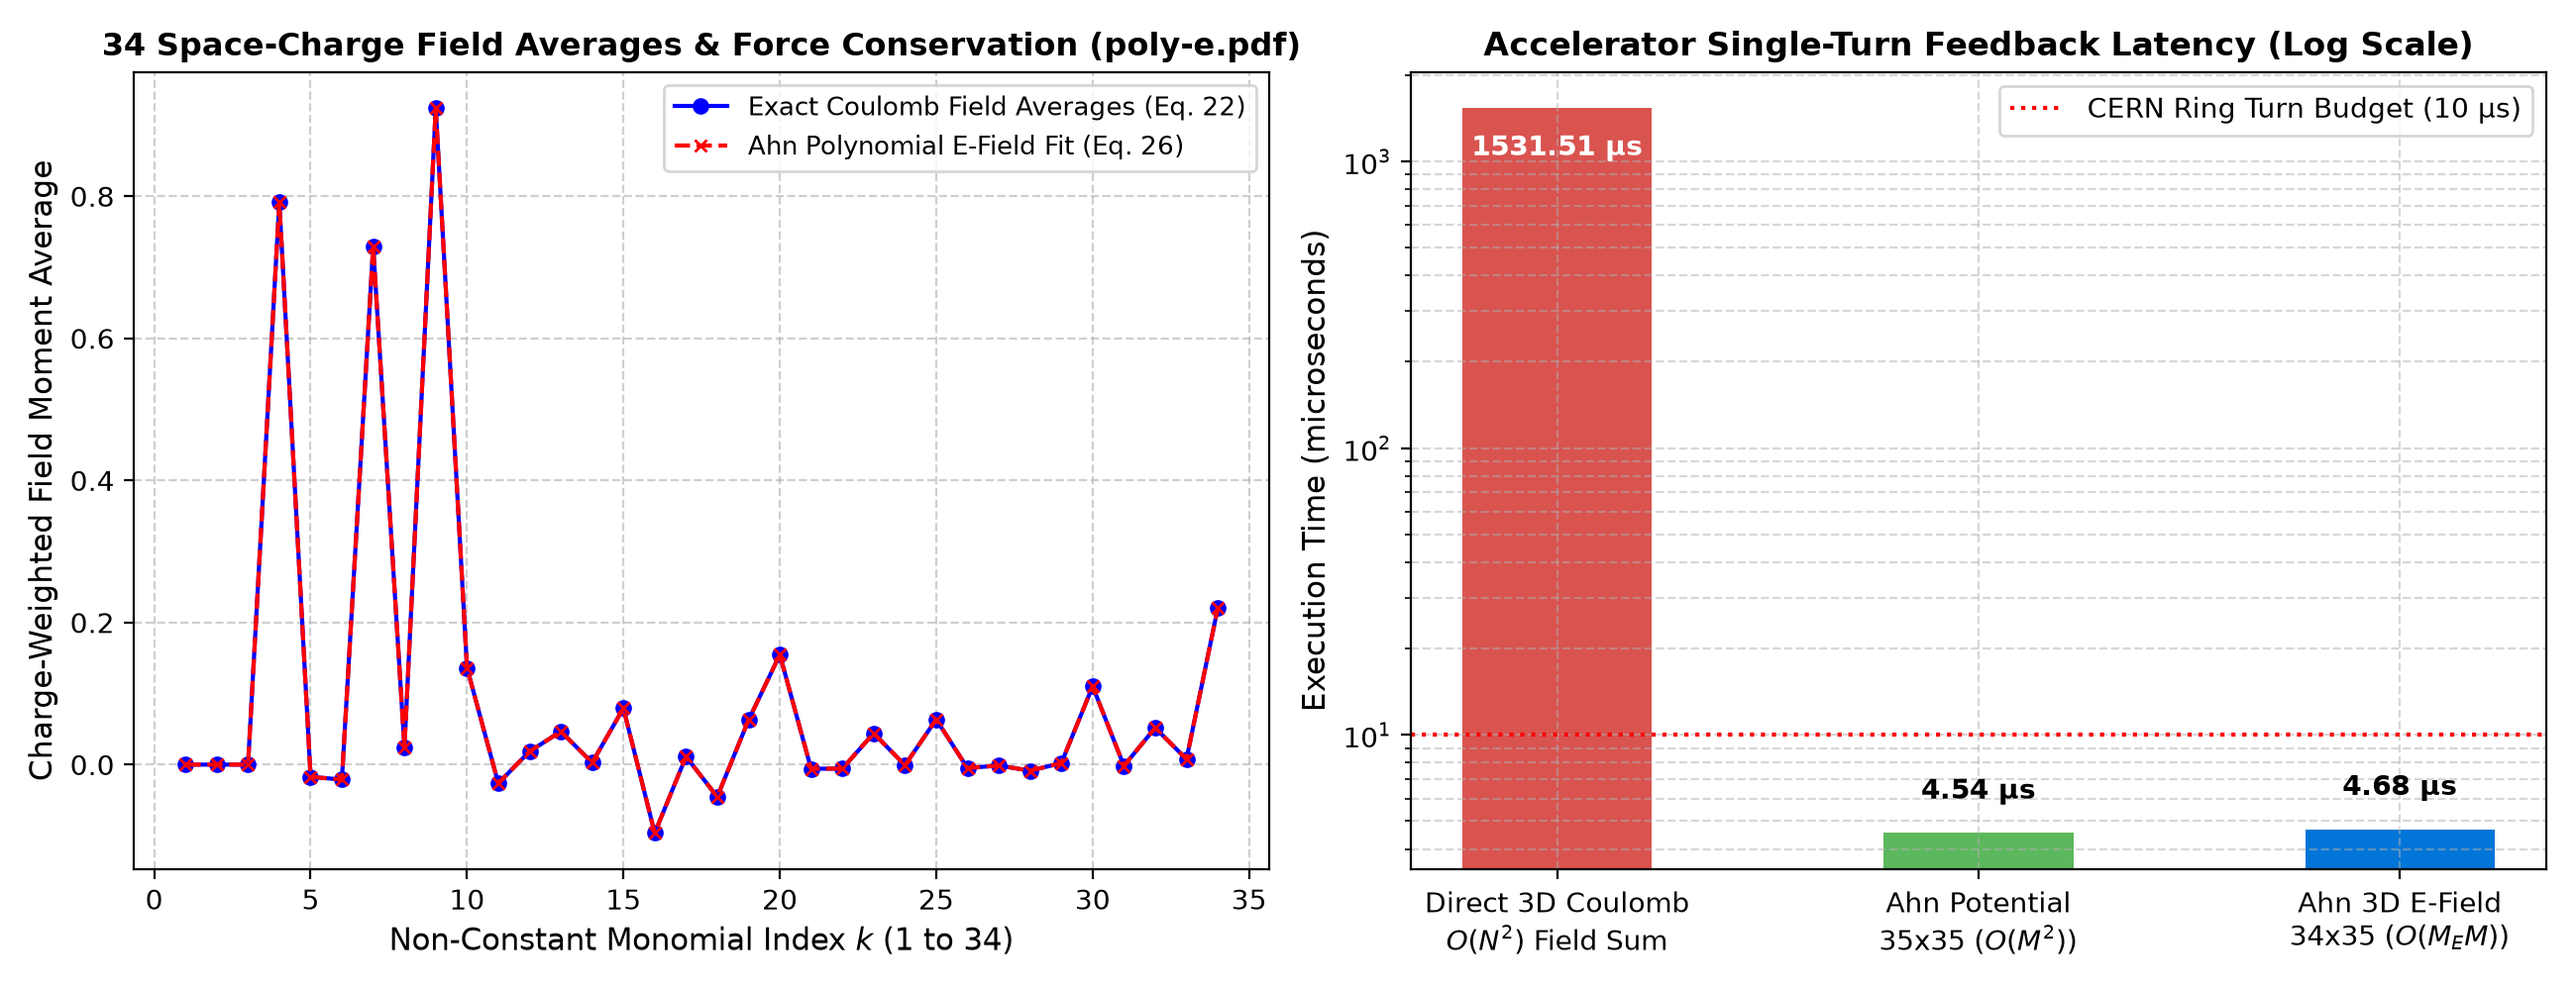
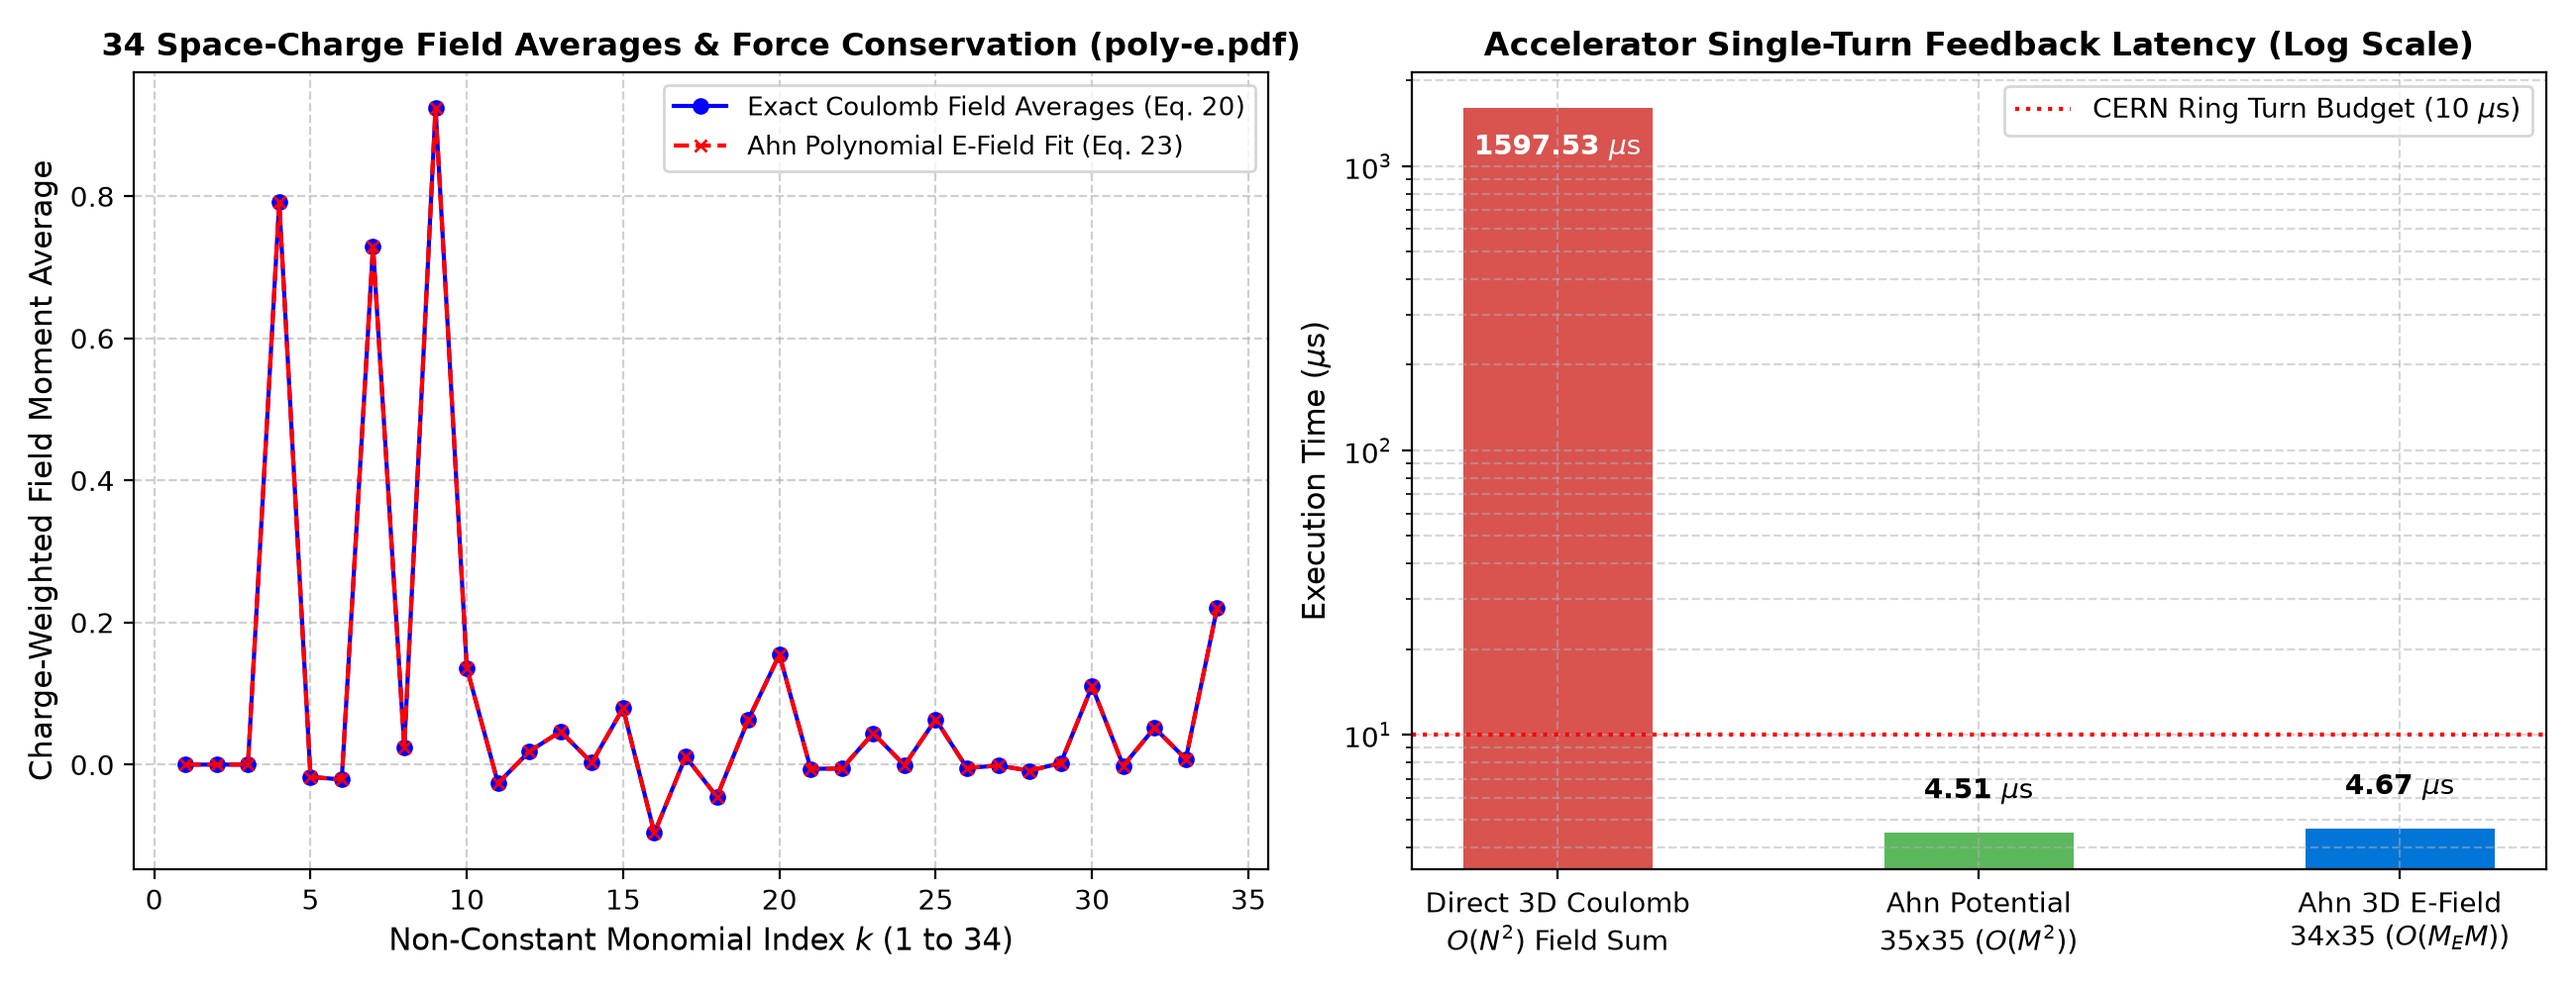
Update figure labels (Eq. 20 & 23), LaTeX units, and C++20 header

diff --git a/cpp/accelerator_space_charge_engine.hpp b/cpp/accelerator_space_charge_engine.hpp
@@ -1,0 +1,45 @@
+// Copyright (c) 2026 Dr. Hyo E. Ahn (ahn@aya.yale.edu)
+// C++20 Deterministic 35x35 Potential & 34x35 3D Electric Field Space-Charge Engine
+#pragma once
+#include <array>
+#include <cstddef>
+
+namespace lanl::accelerator {
+
+constexpr std::size_t M_POTENTIAL = 35;
+constexpr std::size_t M_EFIELD = 34;
+
+struct SpaceChargeMomentOperator {
+    std::array<std::array<double, M_POTENTIAL>, M_POTENTIAL> K_pot{};
+    std::array<double, M_POTENTIAL> v0_pot{};
+    std::array<std::array<double, M_POTENTIAL>, M_EFIELD> K_field{};
+    std::array<double, M_EFIELD> v0_field{};
+
+    [[nodiscard]] constexpr std::array<double, M_POTENTIAL>
+    reconstruct_potential(const std::array<double, M_POTENTIAL>& s) const noexcept {
+        std::array<double, M_POTENTIAL> v = v0_pot;
+        for (std::size_t i = 0; i < M_POTENTIAL; ++i) {
+            double acc = v[i];
+            for (std::size_t j = 0; j < M_POTENTIAL; ++j) {
+                acc += K_pot[i][j] * s[j];
+            }
+            v[i] = acc;
+        }
+        return v;
+    }
+
+    [[nodiscard]] constexpr std::array<double, M_EFIELD>
+    reconstruct_electric_field(const std::array<double, M_POTENTIAL>& s) const noexcept {
+        std::array<double, M_EFIELD> v_e = v0_field;
+        for (std::size_t i = 0; i < M_EFIELD; ++i) {
+            double acc = v_e[i];
+            for (std::size_t j = 0; j < M_POTENTIAL; ++j) {
+                acc += K_field[i][j] * s[j];
+            }
+            v_e[i] = acc;
+        }
+        return v_e;
+    }
+};
+
+} // namespace lanl::accelerator

diff --git a/Test/benchmark_accelerator_space_charge.py b/Test/benchmark_accelerator_space_charge.py
@@ -237,14 +237,14 @@ def run_accelerator_benchmark(
         idx_34,
         field_thm["exact_field_averages_34"],
         "bo-",
-        label="Exact Coulomb Field Averages (Eq. 22)",
+        label="Exact Coulomb Field Averages (Eq. 20)",
         markersize=5,
     )
     axes[0].plot(
         idx_34,
         field_thm["approx_field_averages_34"],
         "rx--",
-        label="Ahn Polynomial E-Field Fit (Eq. 26)",
+        label="Ahn Polynomial E-Field Fit (Eq. 23)",
         markersize=4,
     )
     axes[0].set_title(
@@ -267,19 +267,19 @@ def run_accelerator_benchmark(
     bars = axes[1].bar(methods, times, color=colors, width=0.45)
     axes[1].set_yscale("log")
     axes[1].set_title("Accelerator Single-Turn Feedback Latency (Log Scale)", fontsize=12, fontweight="bold")
-    axes[1].set_ylabel("Execution Time (microseconds)", fontsize=11)
+    axes[1].set_ylabel(r"Execution Time ($\mu\mathrm{s}$)", fontsize=11)
     axes[1].axhline(
         y=deadline_us,
         color="red",
         linestyle=":",
-        label=f"CERN Ring Turn Budget ({deadline_us:.0f} µs)",
+        label=rf"CERN Ring Turn Budget ({deadline_us:.0f} $\mu\mathrm{{s}}$)",
     )
     for bar in bars:
         yval = bar.get_height()
         axes[1].text(
             bar.get_x() + bar.get_width() / 2.0,
             yval * 0.65 if yval > 100 else yval * 1.25,
-            f"{yval:.2f} µs",
+            rf"{yval:.2f} $\mu\mathrm{{s}}$",
             ha="center",
             va="bottom",
             fontweight="bold",

diff --git a/README.md b/README.md
@@ -91,3 +91,4 @@ python3 Test/benchmark_accelerator_space_charge.py
 
 ## 5. License & Priority Notice
 Copyright (c) 2026 Dr. Hyo E. Ahn (`ahn@aya.yale.edu`). All rights reserved. Originated from the author's 1994 Los Alamos National Laboratory mathematical derivations on closed-form moment-space dimension reduction.
+
